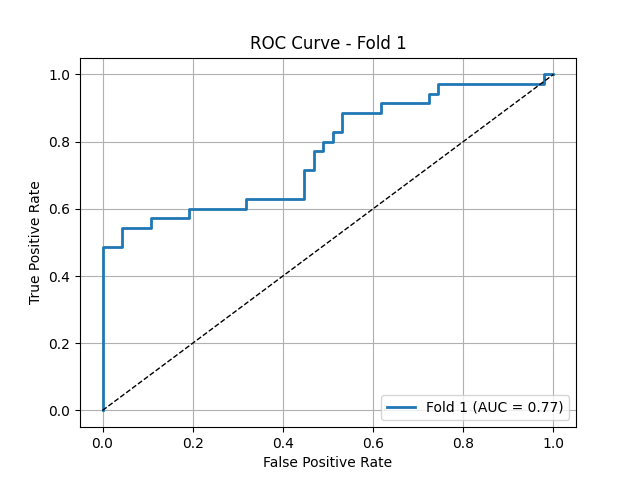
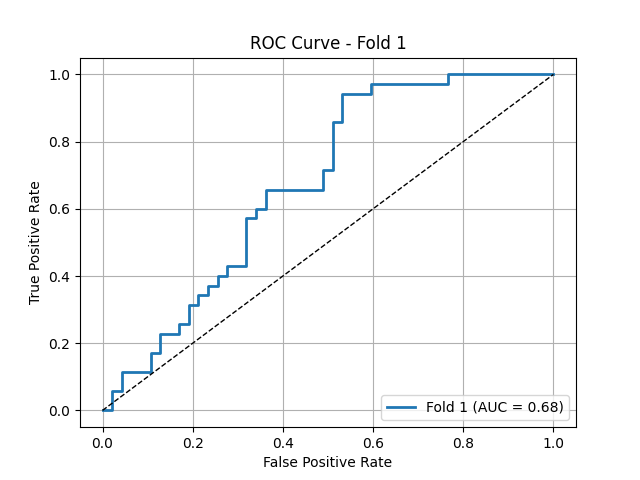
excluding the pretrained encoder

diff --git a/multi_head_models.py b/multi_head_models.py
@@ -376,7 +376,7 @@ class BinaryClassification(pl.LightningModule):
             x = torch.cat((x, x2_radiomics), dim=1)
             return self.linear(x).squeeze(), (self.linear_trainable(x2.reshape(x.shape[0], -1)).squeeze() , self.linear_radiomics_tail(x2_radiomics).squeeze())
         else:   
-            x1 = self.linear(x1.reshape(x.shape[0], -1))
+            x1 = self.linear(x1.reshape(x.shape[0], -1))*0
             x2 = self.linear_trainable(x2.reshape(x.shape[0], -1))
             x3 = self.linear_boundary(x_boundary.reshape(x.shape[0], -1))
             x4 = self.linear_center(x_center.reshape(x.shape[0], -1)) 
